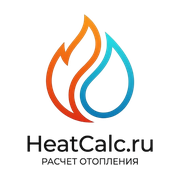
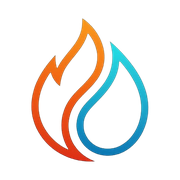
Значки: только графика без подписи, фон прозрачный
Favicon и иконки установки (192/512) — пламя и капля без надписи
«HeatCalc.ru», которая на мелком размере не читалась. Прозрачный фон
вернули. apple-touch-icon остаётся непрозрачным: iOS закрашивает
прозрачность чёрным.

Новый файл img/logo_mark.png; в index.html favicon главной указывает на него.
Версии (?v=, CACHE_NAME) не поднимались.

Changed region(s): [[0.1389, 0.0833, 0.8611, 0.9167]]

diff --git a/index.html b/index.html
@@ -154,7 +154,7 @@
     }
     </script>
 
-    <link rel="icon" type="image/png" href="img/logo_HC.png">
+    <link rel="icon" type="image/png" href="img/logo_mark.png">
     <!-- Значок на экране «Домой» iPhone/iPad. Без apple-touch-icon iOS берёт снимок страницы
          (мелкий и обрезанный) или ставит пустую иконку. Файл непрозрачный: прозрачный фон
          iOS закрашивает чёрным. 180×180 — родной размер для iPhone. -->
